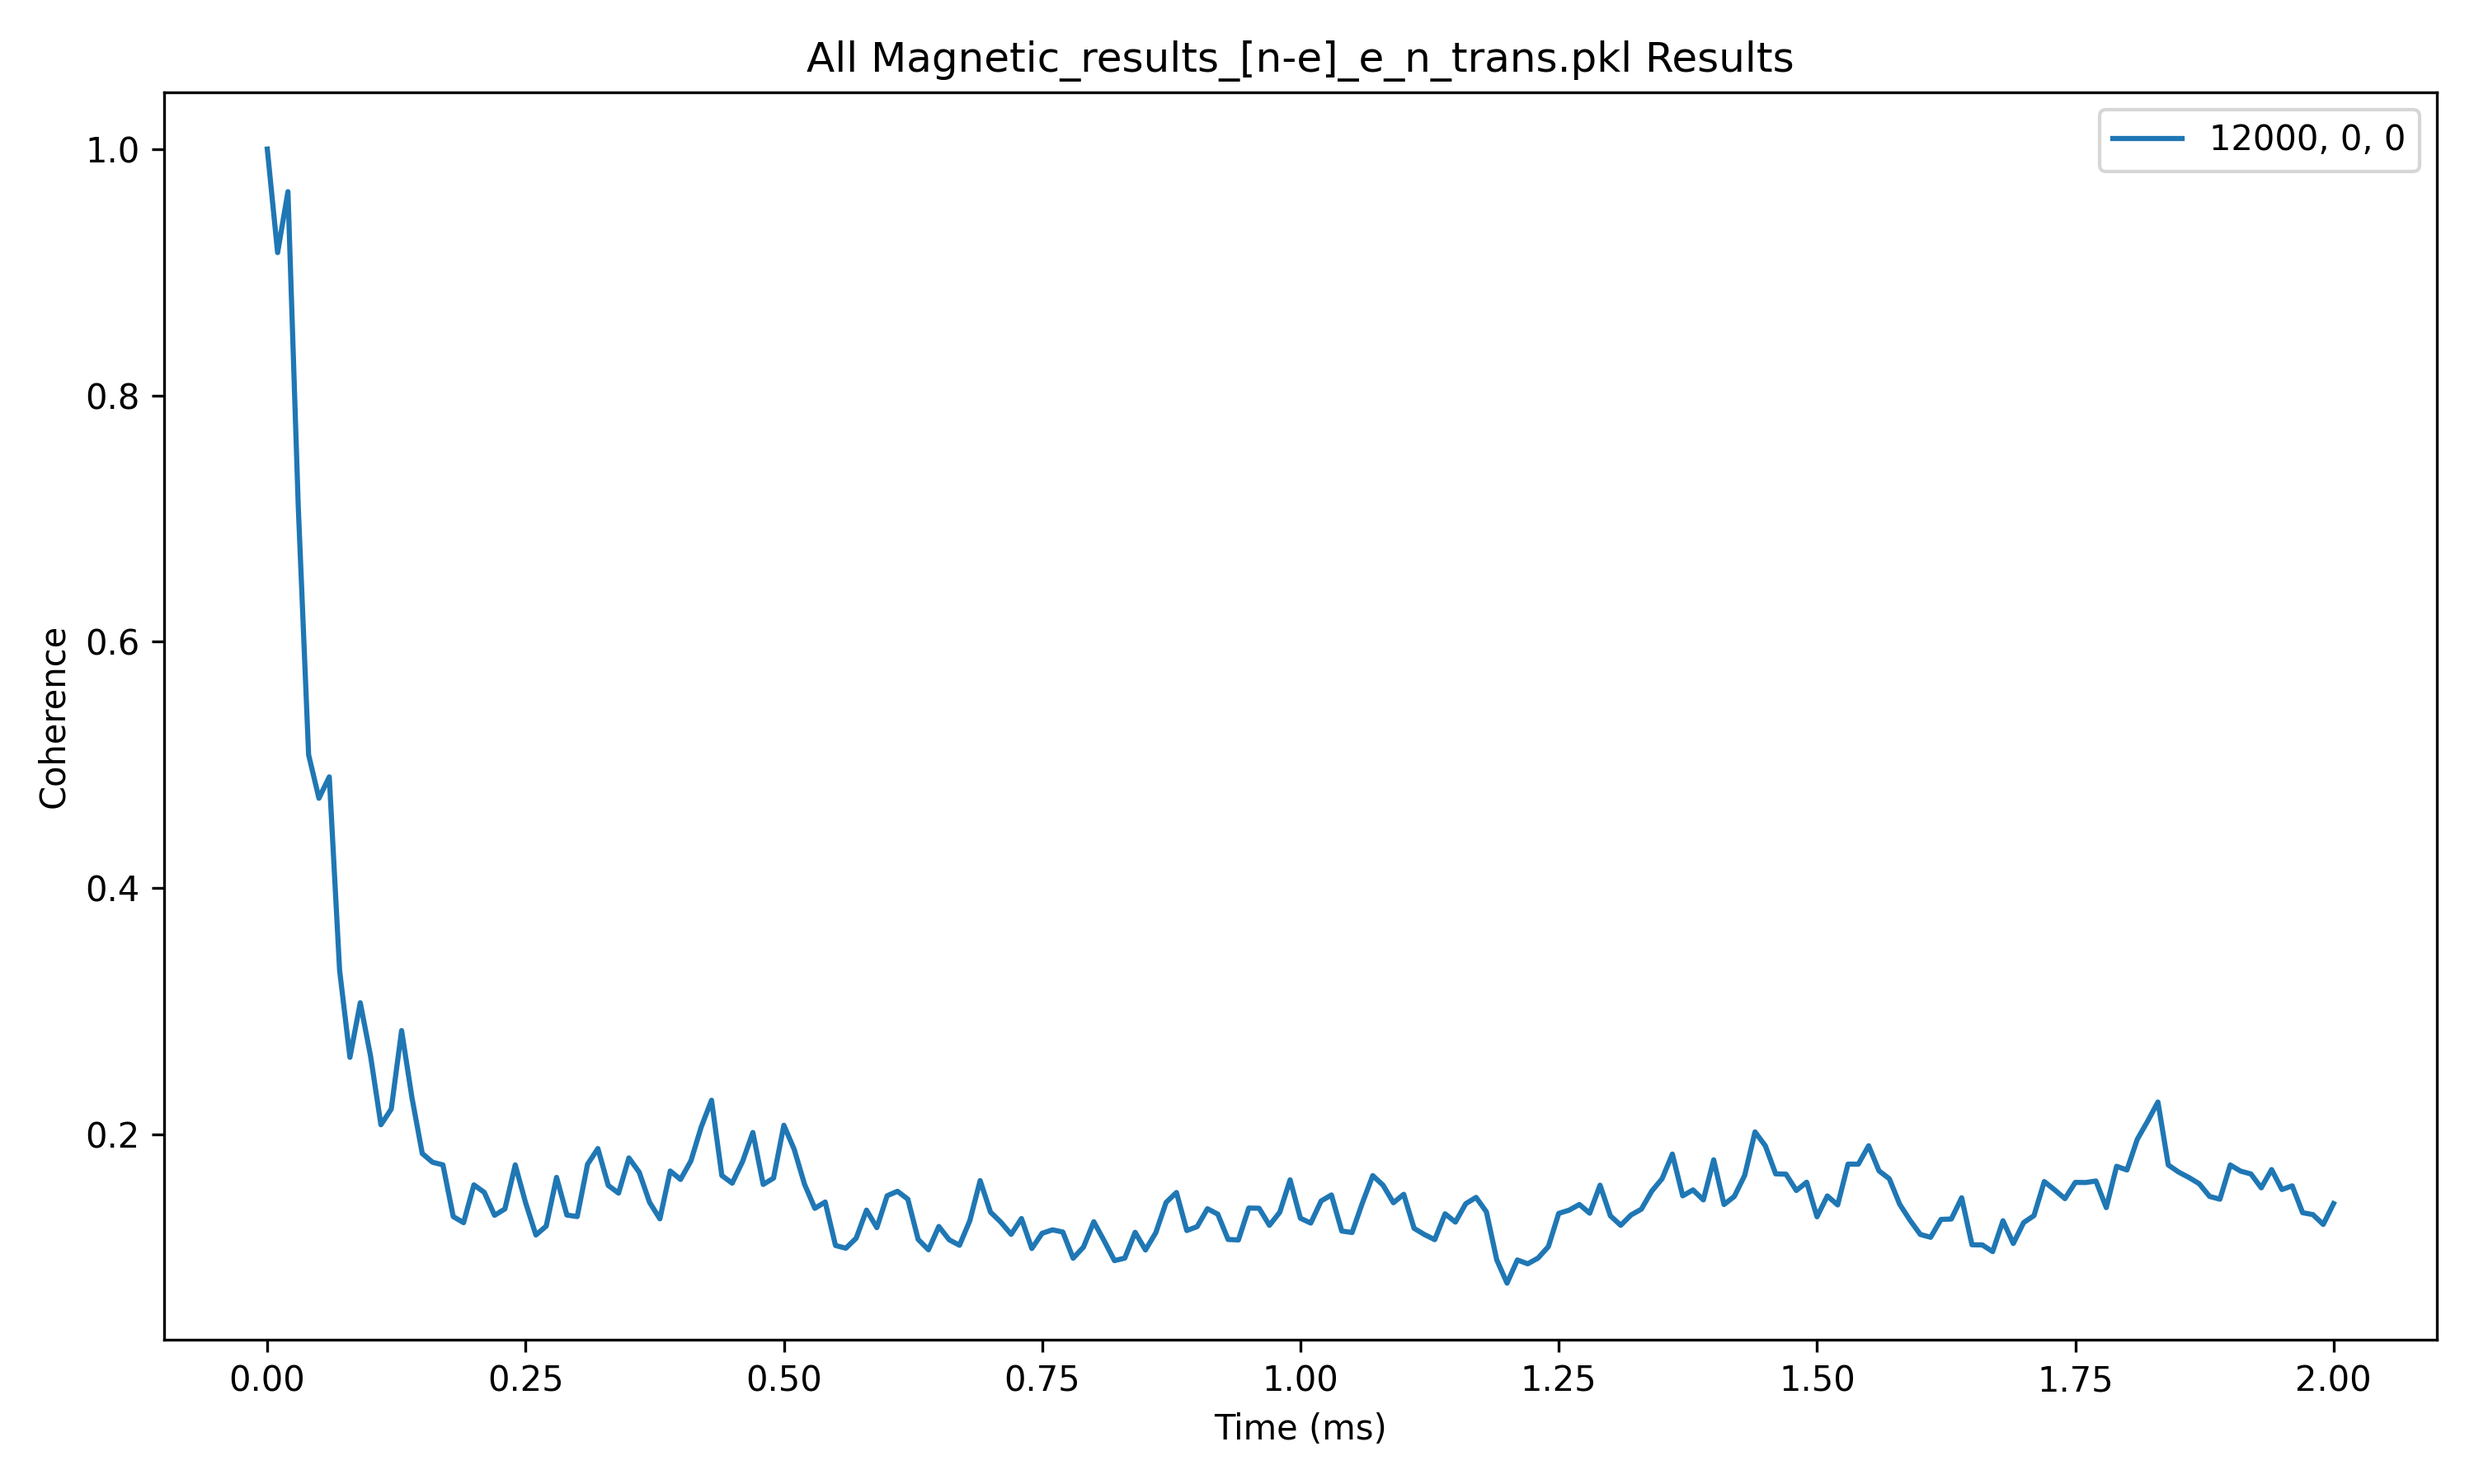
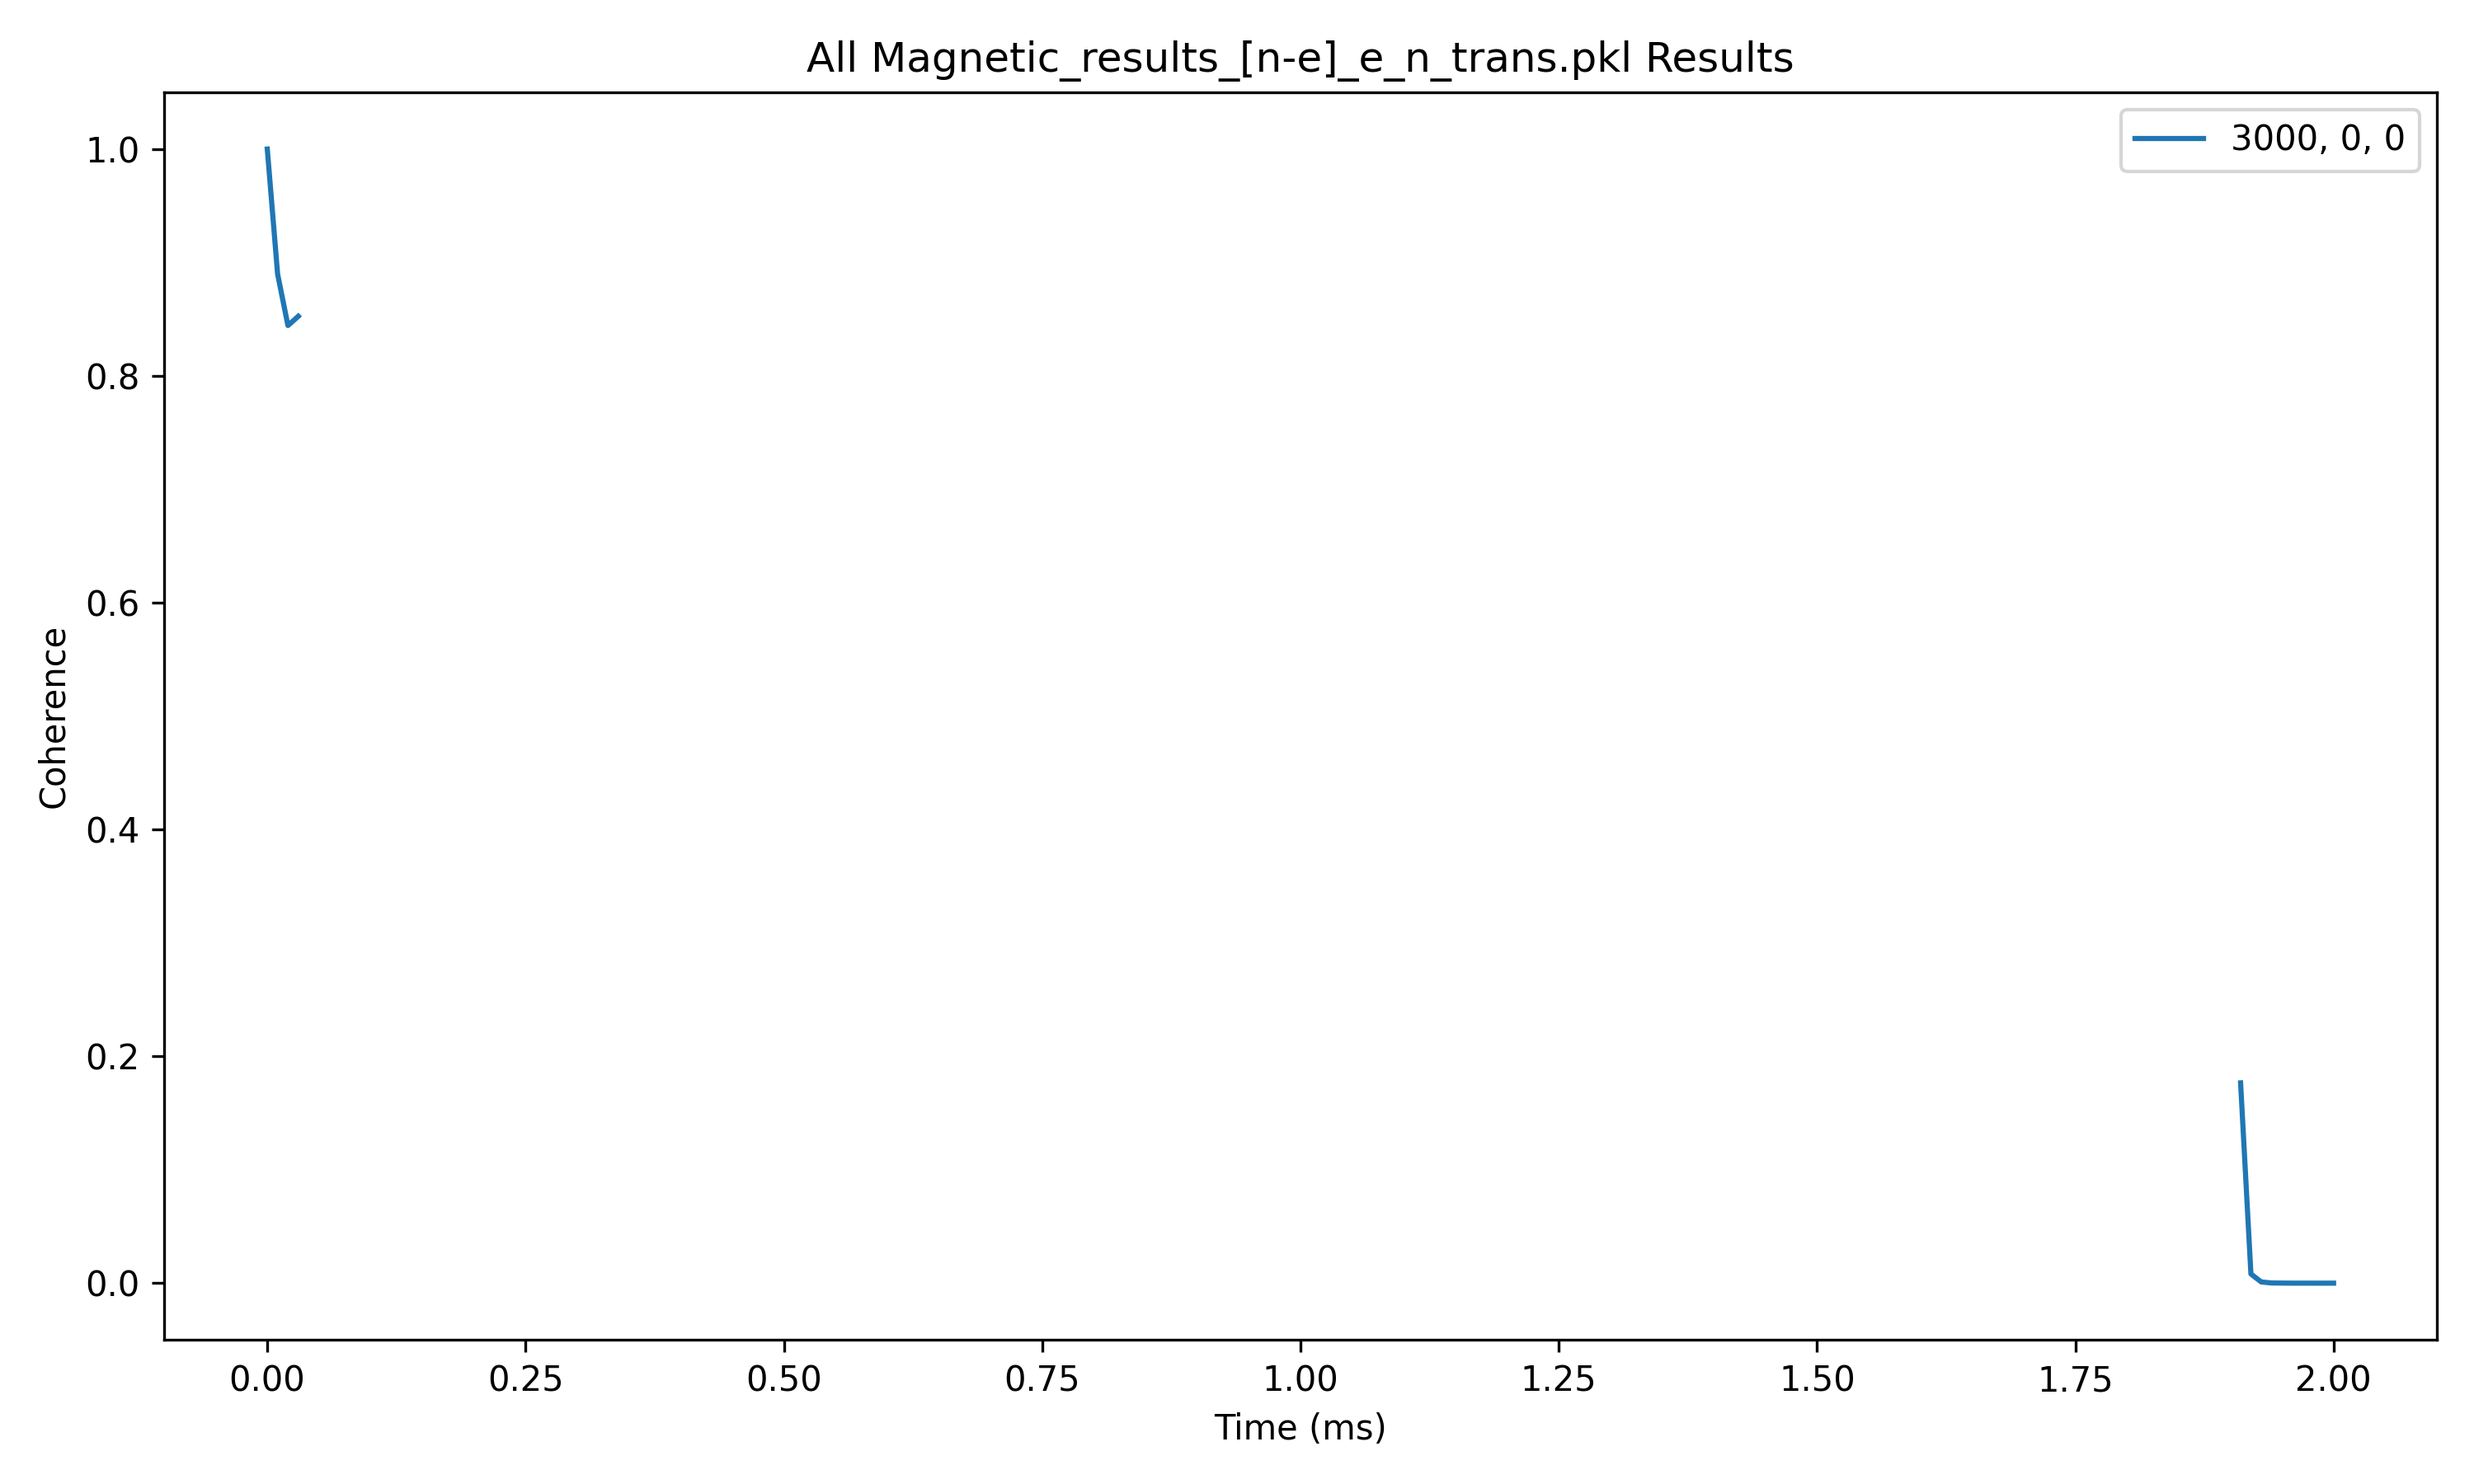
order3 long computation [n-e]_e_N_trans, r_bath=250, r_dipole=200, NaN results pretty much :/

diff --git a/VOTPP folder/VOTPP_runner_rewrite.py b/VOTPP folder/VOTPP_runner_rewrite.py
@@ -201,7 +201,7 @@ default_calc_parameters = {
 
 default_bath_parameters = {
     'concentration': 0.02, #!
-    'cell_size': 1000, #!
+    'cell_size': 500, #!
     'seed': 8000
 }
 
@@ -209,9 +209,9 @@ default_simulator_parameters = { ########## These should be greater when simulat
     # 'order': 3, #!
     # 'r_bath': 400, #35
     # 'r_dipole': 300, #20
-    'order': 2, #!
-    'r_bath': 400, #35
-    'r_dipole': 300, #20
+    'order': 3, #!
+    'r_bath': 250, #35
+    'r_dipole': 200, #20
     # 'pulses': 1, # N pulses in CPMG sequence (=1 is Hahn-echo, =0 is free induction decay)
     # 'pulses': [pc.Pulse('x', 2*(np.pi)/3)], # Paper defines a Hahn-echo pulse sequence with 2pi/3 pulses?
     # 'pulses': [pc.Pulse('x', np.pi), pc.Pulse('y', np.pi)],
@@ -253,22 +253,22 @@ magnetic_field_list = [[3000,0,0],]
 
 
 # # timespace_list = [np.linspace(0,1e-1,201)]
-# magnetic_results = {}
-# for conc in concentration_list:
-#     # print(timespace_list[idx])
-#     # if rank == 0:
-#         # print("Alpha: {}, Beta: {}".format(alphabetas[0], alphabetas[1]))
-#     magnetic_results[conc] = runner(
-#                         concentration_value=conc,
-#                         changing_variable='magnetic_field', variable_values=magnetic_field_list,
-#                         num_spins=2, #spin_type='electron',
-#                         # alpha= [0, 0, 0, 0, 1, 0, 0, 0, 0, 0, 0, 0, 0, 0, 0, 0],
-#                         # beta=  [0, 0, 0, 0, 0, 1, 0, 0, 0, 0, 0, 0, 0, 0, 0, 0],
-#                         alpha= 4,
-#                         beta=  5,
-#                         bath_parameters=default_bath_parameters, simulator_parameters=default_simulator_parameters, calc_parameters=default_calc_parameters,
-#                         # changing_variable2='timespace', variable_values2=timespace_list,
-#                         )
+magnetic_results = {}
+for conc in concentration_list:
+    # print(timespace_list[idx])
+    # if rank == 0:
+        # print("Alpha: {}, Beta: {}".format(alphabetas[0], alphabetas[1]))
+    magnetic_results[conc] = runner(
+                        concentration_value=conc,
+                        changing_variable='magnetic_field', variable_values=magnetic_field_list,
+                        num_spins=2, #spin_type='electron',
+                        # alpha= [0, 0, 0, 0, 1, 0, 0, 0, 0, 0, 0, 0, 0, 0, 0, 0],
+                        # beta=  [0, 0, 0, 0, 0, 1, 0, 0, 0, 0, 0, 0, 0, 0, 0, 0],
+                        alpha= 4,
+                        beta=  5,
+                        bath_parameters=default_bath_parameters, simulator_parameters=default_simulator_parameters, calc_parameters=default_calc_parameters,
+                        # changing_variable2='timespace', variable_values2=timespace_list,
+                        )
 
 #####################################################################
 
@@ -302,23 +302,23 @@ magnetic_field_list = [[3000,0,0],]
     
 # print("Order results done")
 
-r_bath_results = {}
-for idx, conc in enumerate(concentration_list):
-    r_bath_results[conc] = runner(
-                        concentration_value=conc,
-                        changing_variable='r_bath', variable_values=r_bath_list,
-                        num_spins=2, #spin_type='nuclear',
-                        alpha= 4,
-                        beta=  5,
-                        bath_parameters=default_bath_parameters, simulator_parameters=default_simulator_parameters, calc_parameters=default_calc_parameters,
-                        # changing_variable2='timespace', variable_values2=timespace_list,
-                        )
-    # Save the current state of results
-    with open((str(path) + f'r_bath_results_{idx}.pkl'), 'wb') as f:
-        pickle.dump(r_bath_results, f)
+# r_bath_results = {}
+# for idx, conc in enumerate(concentration_list):
+#     r_bath_results[conc] = runner(
+#                         concentration_value=conc,
+#                         changing_variable='r_bath', variable_values=r_bath_list,
+#                         num_spins=2, #spin_type='nuclear',
+#                         alpha= 4,
+#                         beta=  5,
+#                         bath_parameters=default_bath_parameters, simulator_parameters=default_simulator_parameters, calc_parameters=default_calc_parameters,
+#                         # changing_variable2='timespace', variable_values2=timespace_list,
+#                         )
+#     # Save the current state of results
+#     with open((str(path) + f'r_bath_results_{idx}.pkl'), 'wb') as f:
+#         pickle.dump(r_bath_results, f)
 
-if rank == 0:
-    print("r_bath results done")
+# if rank == 0:
+#     print("r_bath results done")
 
 # r_dipole_results = {}
 # for idx, conc in enumerate(concentration_list):
@@ -351,8 +351,8 @@ if rank == 0:
     # with open((str(path) + 'magnetic_nbstates_convergence.pkl'), 'wb') as f:
     #     pickle.dump(magnetic_nbstates_convergence, f)
 
-    # with open((str(path) + 'magnetic_results_[n-e]_e_N_trans.pkl'), 'wb') as f:
-    #     pickle.dump(magnetic_results, f)
+    with open((str(path) + 'magnetic_results_[n-e]_e_N_trans.pkl'), 'wb') as f:
+        pickle.dump(magnetic_results, f)
 
 
     # with open((str(path) + 'order_results.pkl'), 'wb') as f:
@@ -361,8 +361,8 @@ if rank == 0:
     # with open((str(path) + 'cell_size_results.pkl'), 'wb') as f:
     #     pickle.dump(cell_size_results, f)
 
-    with open((str(path) + 'r_bath_results.pkl'), 'wb') as f:
-        pickle.dump(r_bath_results, f)
+    # with open((str(path) + 'r_bath_results.pkl'), 'wb') as f:
+    #     pickle.dump(r_bath_results, f)
     
     # with open((str(path) + 'r_dipole_results.pkl'), 'wb') as f:
     #     pickle.dump(r_dipole_results, f)
